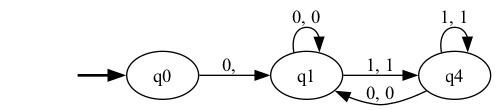
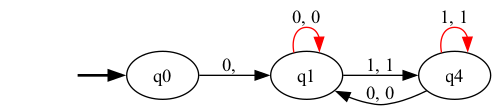
basic donee

Changed region(s): [[0.877, 0.2182, 0.9677, 0.4636], [0.5746, 0.2727, 0.6653, 0.4636], [0.6048, 0.2182, 0.6351, 0.2727]]

diff --git a/src/utils_pdfa/rl_solve.py b/src/utils_pdfa/rl_solve.py
@@ -3,18 +3,20 @@ from env.basic_domain import get_reward
 #get mdp from pdfa
 
 def solve_mdp(pdfa, a_dict, gamma =0.9):
-    for i in range(100):
+    for i in range(2):
 
         for s in pdfa.states:
+
             #get connected states
             if s.name in pdfa.transitions:
+
                 for a in pdfa.transitions[s.name]:
+
                     for q in pdfa.transitions[s.name][a]:
+
                         q_state = get_state_from_name(q, pdfa)
                         if a in a_dict:
-                            #print(a, a_dict[a])
-                            s.VA[a_dict[a]] = s.A[a_dict[a]]+ gamma*max(q_state.VA)
-
+                            s.VA[a_dict[a]] = s.A[a_dict[a]] + gamma*max(q_state.VA)
 
 
     return pdfa

diff --git a/main.py b/main.py
@@ -8,7 +8,7 @@ from learn_cyclic_pdfa import learn_cyclic_pdfa
 
 if __name__ == "__main__":
     K = 50
-    H = 4
+    H = 6
     A = 2
     env = "loop-domain"
 
@@ -22,9 +22,10 @@ if __name__ == "__main__":
     print(pdfa.transitions)
     #render pdfa
     pdfa = solve_mdp(pdfa, a_dict)
-    # for s in pdfa.states:
-    #     print(s.VA)
-    #pdfa = get_optimal_policy(pdfa, a_dict1)
+    for s in pdfa.states:
+        print(s.VA)
+    pdfa = get_optimal_policy(pdfa, a_dict) #a_dict1 for other cases
+    print(pdfa.policy)
     #print("optimal policy ", pdfa.policy)
     gr = render(pdfa, a_dict)
     #generate graph (change location)

diff --git a/src/utils_pdfa/render.py b/src/utils_pdfa/render.py
@@ -22,8 +22,9 @@ def render(pdfa, a_dict):
                 label += f", {replace_c(pdfa.transitions[s][a][s1])}"
                 c="black"
                 if a in a_dict:
-                    if pdfa.policy[s] == a:
-                        c="red"
+                    if s!='q0':
+                        if pdfa.policy[s] == a:
+                            c="red"
                     else:
                         c="black"
 

diff --git a/env/get_env.py b/env/get_env.py
@@ -59,10 +59,10 @@ def get_env(env, K, H):
 
 
     elif env == "loop-domain":
-        a_dict={'a0':0, 'a1':1}
+        a_dict={0:0, 1:1}
         # a_dict1 = { 0: 'a0', 1: 'a1'}
         loop = LoopDomain()
-        D, first_obs= loop.generate_trajs(K, H)
+        D, first_obs = loop.generate_trajs(K, H)
 
         return D.astype(int), first_obs, a_dict
 
